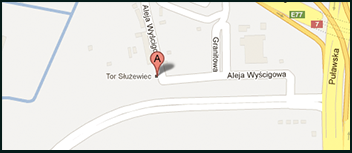
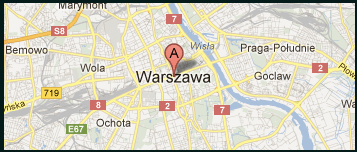
- usunięcie toru, żebyśmy mogli znegocjować cenę

diff --git a/templates/index.html b/templates/index.html
@@ -32,10 +32,10 @@
             Warsaw, May 2013
         </div>
 
-        <div class="body">We're really happy to host you in Warsaw, Poland and make this place your home for a few days in May 2013. After a long time we finally found a perfect place for our crazy circus: <a href="http://torsluzewiec.pl/">horse racing track Służewiec</a>.</div>
+        <div class="body">We're really happy to host you in Warsaw, Poland and make this place your home for a few days in May 2013. We're still looking for a perfect, green and calm place for our crazy circus, so we'll update you as soon as we find one.</div>
 
         <div class="map">
-            <a href="http://goo.gl/maps/SWi6"><img src="{{ STATIC_URL }}img/map.png" alt="location map" /></a>
+            <a href="http://goo.gl/maps/N0G2g"><img src="{{ STATIC_URL }}img/map.png" alt="location map" /></a>
         </div>
     </div><!-- location -->
 
